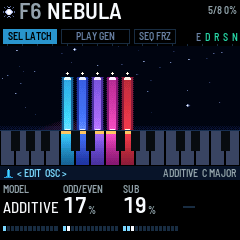
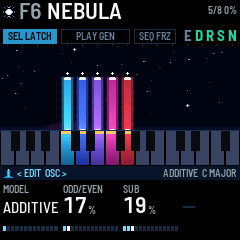
Take the dead knobs and the skipped values off the panel, so every control does what the screen says

Changed region(s): [[0.7583, 0.1167, 0.9917, 0.175]]

diff --git a/deepfield/site/cheatsheet/index.html b/deepfield/site/cheatsheet/index.html
@@ -134,7 +134,7 @@ footer { margin-top: 8px; color: var(--muted); font-size: .92rem; }
   <h2>Getting around</h2>
   <dl>
     <dt><span class="v">tap</span><span class="c">HOME</span></dt>
-    <dd>HOME page: TIMBRE, DRIFT, REVERB, TREMOLO on KNOB 1–4.</dd>
+    <dd>HOME page: TIMBRE, DRIFT, SUB, TREMOLO on KNOB 1&ndash;4. Reverb lives on FX and the FX mixer; every preset comes with it on.</dd>
     <dt><span class="v">turn</span><span class="c k">SELECT</span></dt>
     <dd>The next or previous page.</dd>
     <dt><span class="v">tap</span><span class="c">EDIT</span></dt>
@@ -146,9 +146,9 @@ footer { margin-top: 8px; color: var(--muted); font-size: .92rem; }
     <dt><span class="v">tap</span><span class="c">FX</span></dt>
     <dd>ENSEMBLE. Turn SELECT for DELAY, DELAY 2, REVERB.</dd>
     <dt><span class="v">tap</span><span class="c">ARP</span></dt>
-    <dd>GEN. Turn SELECT for GEN 2.</dd>
+    <dd>GEN. Turn SELECT for GEN 2, whose knobs are the mode's too &mdash; a knob the mode never reads is empty.</dd>
     <dt><span class="v">tap</span><span class="c">GLO</span></dt>
-    <dd>MIX: BED (everything latched), LEAD (what you play over it), OUT (a trim under the MASTER pot). Turn SELECT for FX MIX (ensemble, delay, reverb, shimmer on one screen), then GLOBAL (scale, root, morph), MIDI and USB.</dd>
+    <dd>MIX: BED (everything latched), LEAD (what you play over it), OUT (a trim under the MASTER pot). Turn SELECT for FX MIX (ensemble, delay, reverb, shimmer on one screen), then GLOBAL (scale, root, morph, TEMPO &mdash; the arp and a synced delay time both follow it), MIDI and USB.</dd>
     <dt><span class="v">turn</span><span class="c k">MASTER</span></dt>
     <dd>Volume: the speaker, the headphones and the USB recording.</dd>
   </dl>
@@ -184,7 +184,7 @@ footer { margin-top: 8px; color: var(--muted); font-size: .92rem; }
     <dt><span class="v">turn</span><span class="c k">KNOB 2</span></dt>
     <dd>On HOME, DRIFT: how much each voice wanders.</dd>
     <dt><span class="v">turn</span><span class="c k">KNOB 3</span></dt>
-    <dd>On HOME, REVERB: how much reverb.</dd>
+    <dd>On HOME, SUB: an octave below, on every model. The same value as SUB on OSC.</dd>
     <dt><span class="v">turn</span><span class="c k">KNOB 4</span></dt>
     <dd>On HOME, TREMOLO: each voice slowly fades down and back up.</dd>
     <dt><span class="v">turn</span><span class="c k">ALGORITHM</span></dt>
@@ -260,7 +260,7 @@ footer { margin-top: 8px; color: var(--muted); font-size: .92rem; }
     <dt><span class="v">tap</span><span class="c">GLO</span><span class="p">+</span><span class="v">turn</span><span class="c k">SELECT</span></dt>
     <dd>MIDI: in and out channels, local, velocity (on by default). Turn again for USB: recording and clock out.</dd>
     <dt><span class="v">send</span><span class="c">a CC</span></dt>
-    <dd>Every knob has one, in and out: 16–19 TIMBRE DRIFT REVERB TREMOLO, 9 MODEL, 109–113 GEN's MODE RATE CHANCE RANGE RETURN, 15 CHORDS, 51 ROAM, 54 BED, 2 SCALE, 3 ROOT … (the manual has the table). A knob turned sends its CC; a CC in never lights SAVE.</dd>
+    <dd>Every knob has one, in and out: 16–19 TIMBRE DRIFT REVERB TREMOLO, 21 SUB, 9 MODEL, 109–113 GEN's MODE RATE CHANCE RANGE RETURN, 15 CHORDS, 51 ROAM, 54 BED, 2 SCALE, 3 ROOT … (the manual has the table). A knob turned sends its CC; a CC in never lights SAVE.</dd>
     <dt><span class="v">send</span><span class="c">CC 57–63</span></dt>
     <dd>Switches: 57 LATCH, 58 GEN, 59 FREEZE, 60–63 ensemble, delay, reverb, shimmer (64 up is on); 12 the noise layer. Triggers: 13 the preset as saved, 14 GEN's next move now.</dd>
     <dt><span class="v">send</span><span class="c">SysEx</span></dt>

diff --git a/deepfield/ui.c b/deepfield/ui.c
@@ -30,7 +30,9 @@ typedef struct {
     uint8_t p[4];
 } page_t;
 static const page_t PAGES[PG_COUNT] = {
-    {"HOME", "HOME", {P_MASS, P_DRIFT, P_SPACE, P_TIDE}},
+    {"HOME", "HOME", {P_MASS, P_DRIFT, P_SUB, P_TIDE}},   /* the voice itself: what it is made of, how it
+                                          * drifts, how heavy it is, how it moves. REVERB was here while it
+                                          * was the only effect; it has its own page and the FX mixer now */
     {"OSC", "EDIT", {P_MODEL, P_SHAPE, P_SUB, P_AIR}},
     {"NOISE", "EDIT", {P_NZ_LEVEL, P_NZ_COLOUR, P_NZ_WIND, P_NZ_BAND}},
     {"NOISE 2", "EDIT", {P_NZ_TEXTURE, P_NZ_GUST, P_NZ_DUCK, P_NZ_WIDTH}},   /* its kind, weather, ducking, width */
@@ -47,7 +49,9 @@ static const page_t PAGES[PG_COUNT] = {
     {"MIX", "GLO", {P_BED_LEVEL, P_LD_LEVEL, PID_OUT_LEVEL, PID_NONE}},   /* GLO opens the mixer: the latched bed,
                                           * the notes played over it, and the output under the MASTER pot */
     {"FX MIX", "GLO", {P_ENS_MIX, P_DLY_MIX, P_SPACE, P_SHIMMER}},   /* every effect's level on the next screen */
-    {"GLOBAL", "GLO", {PID_SCALE, PID_ROOT, PID_MORPH, PID_NONE}},
+    {"GLOBAL", "GLO", {PID_SCALE, PID_ROOT, PID_MORPH, P_ARP_RATE}},   /* TEMPO: the arp steps at DIV of it and a
+                                          * delay set to a division of the beat follows it, so it belongs where it
+                                          * can be reached in every mode, not only on the GEN page under ARP */
     {"MIDI", "GLO", {PID_MIDI_IN, PID_MIDI_OUT, PID_LOCAL, PID_VEL}},
     {"USB", "GLO", {PID_SPEAKER, PID_USB_LEVEL, PID_CLOCK_OUT, PID_NONE}},   /* recording and clock over the cable */
 };
@@ -337,9 +341,17 @@ static uint32_t page_param(uint32_t pg, uint32_t k)   /* GEN: knobs 2-4 are the 
         };
         return BY_MODE[dr_orbit_mode()][k - 1u];
     }
-    if (pg == PG_ORBIT2 && k == 1u && (dr_orbit_mode() == OM_CYCLE || dr_orbit_mode() == OM_ECHO))
-        return P_ORB_ROAM;               /* PROG: how far the generator may take the written progression; LOOP: how
-                                          * far each pass travels. The ARP knobs stay where they are for the rest. */
+    if (pg == PG_ORBIT2) {               /* GEN 2's knobs are the mode's too, the way the GEN page's are: a knob
+                                          * whose setting this mode's generator never reads is empty, rather than
+                                          * sitting there taking a turn and doing nothing */
+        uint32_t m = dr_orbit_mode();
+        if (k == 0u)                     /* RETURN pulls a wandering voice home: ARP and PROG/LOOP never wander */
+            return m == OM_ARP || m == OM_CYCLE || m == OM_ECHO ? PID_NONE : P_GRAVITY;
+        if (k == 1u)                     /* PROG: how far the generator may take the written progression; LOOP: how
+                                          * far each pass travels; ARP: the octaves it runs over */
+            return m == OM_CYCLE || m == OM_ECHO ? P_ORB_ROAM : m == OM_ARP ? P_ARP_OCT : PID_NONE;
+        return m == OM_ARP ? PAGES[pg].p[k] : PID_NONE;   /* EUCLID and DIV are the runner's own */
+    }
     return *param_label(PAGES[pg].p[k]) ? PAGES[pg].p[k] : PID_NONE;
 }
 static uint32_t value_of(uint32_t id)
@@ -682,8 +694,12 @@ static void value_set(uint32_t id, uint32_t v)
         ui.cfg_dirty = 1;
 }
 
-/* a 0..127 knob turned slowly: 3 a detent (43 a sweep), 2 where a step is heard (VOID's cutoff, a free delay time,
- * ATTACK), 1 for RATE (a BPM a detent); turned fast (a detent within 40 ms of the last): 8, 16 a sweep */
+/* a knob shown as a percent: the lowest raw value that reads p% (value_text's v * 100 / 127), so a detent is one
+ * percent and the screen counts 38, 39, 40 instead of stepping over two of them */
+static int32_t pct_raw(int32_t p) { return (p * 127 + 99) / 100; }
+/* a 0..127 knob turned slowly that is not shown as a percent: 3 a detent (43 a sweep), 2 where a step is heard
+ * (VOID's cutoff, a free delay time, ATTACK), 1 for RATE (a BPM a detent); turned fast (a detent within 40 ms of
+ * the last): 8, 16 a sweep. A time or a frequency covers too wide a range to give every shown value a detent */
 static int32_t knob_slow(uint32_t id, int32_t v)
 {
     if (id == P_ARP_RATE)
@@ -767,6 +783,8 @@ static void knob(uint32_t id, int32_t e, int fast)
             v += e;
         else if (sh >= 0)
             v = sh;
+        else if (!fast && (PM[id].kind == K_PCT || PM[id].kind == K_TEXTURE))
+            v = pct_raw(clamp(v * 100 / 127 + e, 0, 100));   /* one percent a detent, none skipped */
         else {
             int32_t nv = v + e * (fast ? 8 : knob_slow(id, v));
             if (PM[id].kind == K_DLYTIME && v < 100 && nv >= 100)   /* from the free times into the first division */
@@ -2389,8 +2407,10 @@ static void draw_header(void)
     pill_done:;
     }
     pill(134, 42, "SEQ FRZ", dr_frozen(), 0.0f, 0);
-    for (i = 0; i < NFXK; i++)           /* the effects heard, and the noise: E D R S N */
-        cv_text(196 + (int32_t)i * 9, 31, &FONT_T, FXLETTER[i], (act >> i & 1u) ? C_FX_ON : C_OFF);
+    for (i = 0; i < NFXK; i++)           /* the effects heard, and the noise: E D R S N. Big enough to read across
+                                          * the room: with REVERB off HOME these letters are what tells you the
+                                          * reverb is on at all */
+        cv_text(184 + (int32_t)i * 11, 28, &FONT_B, FXLETTER[i], (act >> i & 1u) ? C_FX_ON : C_OFF);
     if (dr_morphing())                   /* the morph's progress along the header's foot */
         cv_rect(0, HEAD_H - 2, (int32_t)(240.0f * dr_morph_pos()), 2, C_TEXT);
     else
@@ -2877,6 +2897,15 @@ static void ui_frame(void)
         if (ui.stat_under) {             /* the USB audio ring's underruns: crackle in a recording */
             text_cat(t, " u");
             int_text((int32_t)(ui.stat_under & 0xFFFFu), v);
+            text_cat(t, v);
+        }
+        if (plat_cpu2_gave_up()) {       /* the second core off: 1 it misread a job, 2 one was late, 3 barred, 4 it
+                                          * never started. It renders half the bodies, so when it stops the sound
+                                          * changes under you and the first core takes the whole load - and nothing
+                                          * else in the log says it happened (late counts a missed deadline, which
+                                          * this is not) */
+            text_cat(t, " C");
+            int_text(plat_cpu2_gave_up(), v);
             text_cat(t, v);
         }
         plat_log(t);

diff --git a/deepfield/docs/MANUAL.md b/deepfield/docs/MANUAL.md
@@ -77,8 +77,8 @@ SELECT is a knob: they are different controls.
    key lights up and its beam rises.
 3. Tap one of those keys again. That voice fades out as you let go, and its beam sinks. (Hold it and turn a knob
    instead, and the knobs set that voice alone: section 4.)
-4. Turn KNOB 1 (TIMBRE): every voice gets brighter or darker. Turn KNOB 3 (REVERB): they sink further into the
-   reverb. The four boxes along the bottom of the screen are the four knobs.
+4. Turn KNOB 1 (TIMBRE): every voice gets brighter or darker. Turn KNOB 3 (SUB): an octave comes up underneath
+   them. The four boxes along the bottom of the screen are the four knobs.
 5. Press PLAY. GEN starts, PLAY lights green and the GEN page opens under the knobs. Every few seconds one voice
    slides to a nearby note in the scale: watch its beam move.
 6. Press SEQ. FREEZE turns on (FRZ lights): the reverb holds what it has. Press SEQ again to let it go.
@@ -133,7 +133,7 @@ accent on a key that is already lit. While FX is held, the keys show the effect 
 
 | Part | What it shows |
 | --- | --- |
-| Header | The model's glyph, then the preset's slot (F1–F16, U1–U16) and name, with a small orange square after it while it has unsaved changes. On the right: OCT when the octave isn't zero; USB while a computer records (USB MUTE when the speaker is silenced, section 10); BLE when a computer, phone or tablet is connected over Bluetooth; DEV when the FM-1 is connected to a Bluetooth MIDI keyboard or controller; how many voices are sounding; how busy the processor is (LOAD in orange: see Troubleshooting); and, while a computer records, U and a count in orange if the recording ever dropped a frame (section 10). Below that, three pills named for their buttons, SEL LATCH (SEL TRANS while SEL held is moving the chord), PLAY GEN and SEQ FRZ, filled while on, always in the same places (while GEN runs, a white line fills along the foot of its pill toward the next move); the letters E D R S N, lit for the effects that are on (ensemble, delay, reverb, shimmer, noise); and a cyan line along the bottom edge while a preset blends in. |
+| Header | The model's glyph, then the preset's slot (F1–F16, U1–U16) and name, with a small orange square after it while it has unsaved changes. On the right: OCT when the octave isn't zero; USB while a computer records (USB MUTE when the speaker is silenced, section 10); BLE when a computer, phone or tablet is connected over Bluetooth; DEV when the FM-1 is connected to a Bluetooth MIDI keyboard or controller; how many voices are sounding; how busy the processor is (LOAD in orange: see Troubleshooting); and, while a computer records, U and a count in orange if the recording ever dropped a frame (section 10). Below that, three pills named for their buttons, SEL LATCH (SEL TRANS while SEL held is moving the chord), PLAY GEN and SEQ FRZ, filled while on, always in the same places (while GEN runs, a white line fills along the foot of its pill toward the next move); the letters E D R S N, lit for the effects that are on (ensemble, delay, reverb, shimmer, noise) - the one place that tells you the reverb is on, since its amount lives on the FX pages; and a cyan line along the bottom edge while a preset blends in. |
 | The view | The voices. Each voice is a beam of light rising from its key, in its key's colour, brightest at its foot, with a white-hot head that marks its level: you see it swell in and sink as it fades (dim), and it breathes with the voice. A latched beam has a sun spark over its head; a locked one a sun bar across its foot; an open one (section 4) white frames, with the other beams dimmed. An ARP step flashes its voice's head. When GEN moves a voice, its beam slides to the new key and leaves a mark where it started, and before the move a line reaches from its head toward a dotted ghost at the key it is going to. A voice above or below the keys (a MIDI note, or after an octave change) stands thin at the edge. The noise layer is a mound of mist where its band sits, warm when brown and pale when white, drifting with the noise's RATE and lifting with each gust. Stars drift at DRIFT's speed, each twinkling slowly on its own, over a faint horizon; FREEZE stills all of it and puts ice brackets in the corners. Turning a knob shows its name, its value large and its bar here for a moment; the beams dim but stay in view behind it. Messages such as LATCH OFF, GEN ON or SAVED appear here too, and so does the list of presets while PRESETS turns (section 9). While FX is held, the five effect switches are shown here in a row. |
 | The keys strip | All 27 keys as dark glass, lit only by sound: a sounding voice's key glows in its colour, bright at the top and dimming down the key (dim while it fades), with a sun cap when latched; the keys of the scale are slightly lighter glass; a lead's key is white (grey as it fades); the held chord's keys are dim while LATCH is off; a voice's key is the one it sounds on, so it moves when GEN or SEL moves the voice; the voice you have open is framed white. |
 | Footer | The page band: the icon of the button that opened the page, its name, the page's name, and `<` `>` where SELECT can go, with the model, the scale and its root on the right. Below it, the four knobs in the order of the real knobs: each name, its value (a number large with its unit small, or a word), and a bar that shows the kind of value: segments filling for an amount, one cell per choice for a list, two cells for an on/off switch, hits and rests for EUCLID. TIMBRE, SHAPE and NOISE are named for what they do on each model (section 6). While a voice is open, the band reads VOICE and its note in the voice's colour, and the four knobs are its own (section 4). |
@@ -229,14 +229,16 @@ number.
 
 ## 5. The four macros (HOME)
 
-HOME is the main page. Its four knobs, TIMBRE, DRIFT, REVERB and TREMOLO, are the four macros: each one shapes every voice
-at once.
+HOME is the main page. Its four knobs, TIMBRE, DRIFT, SUB and TREMOLO, are the four macros: each one shapes every
+voice at once - what it is made of, how it wanders, how heavy it is, how it moves. REVERB was here while it was
+the only effect the FM-1 had; it has its own page and the FX mixer now (section 9), and every preset comes with
+it on.
 
 | Knob | Name | What it does |
 | --- | --- | --- |
 | KNOB 1 | TIMBRE | How full and bright the sound is. What it changes depends on the model: on ADDITIVE, how many harmonics and how bright; on SUPERSAW, the filter cutoff (shown in Hz); on FM and FM 4-OP, the FM depth; on BOWED, the string's brightness; on WAVETABLE, a filter that follows the note. The screen names it for the model (section 6). Aftertouch adds to it for that voice, and so does the voice's own TONE. |
 | KNOB 2 | DRIFT | How much everything wanders: the detuning, the slow drift of pitch, the breathing of the harmonics, and how fast the stars move on the screen. It also sets the vibrato's rate, 3.6 Hz at zero to 6.8 Hz at full. |
-| KNOB 3 | REVERB | How much reverb, and a little delay. The dry sound stays as it is. |
+| KNOB 3 | SUB | An octave below, on every model: how much weight is under the chord. The same value as SUB on the OSC page. |
 | KNOB 4 | TREMOLO | How much each voice fades down and back up on its own slow cycle. At full, each voice goes all the way to silence and back. TREM RATE (LFO page) sets how fast. |
 
 MASTER is the volume of everything the FM-1 sends out: the speaker, the headphones and the USB recording. It is
@@ -254,17 +256,20 @@ next or previous page, in the order of the table below: DELAY, DELAY 2 and REVER
 after ENSEMBLE, for example. The page band's `<` and `>` show where SELECT can go. A page stays open until you
 press another page button or turn SELECT. Most values show on the screen as a percentage.
 
-**Turning the knobs.** Turned slowly, a knob moves in small steps: about 43 clicks from one end to the other. Turned
-quickly, in big ones: 16 clicks end to end. SUPERSAW's TIMBRE, a free DLY TIME and ATTACK move in finer steps still, and
-TEMPO one BPM a click. A knob with only a few values (RANGE, VOICES, TRANSPOSE, the delay's note lengths,
-FM 4-OP's patches) moves one value a click at any speed.
+**Turning the knobs.** A knob shown as a percentage moves **one percent a click** turned slowly, so the number on
+the screen counts 38, 39, 40 and never steps over one: 100 clicks from end to end. Turned quickly - any click
+within 40 ms of the last - it moves in big steps instead, 16 clicks end to end, so a sweep is still a flick of the
+wrist. A knob that shows a time or a frequency (ATTACK, RELEASE, GLIDE, a free DLY TIME, SUPERSAW's and VOID's
+TIMBRE) covers too wide a range for every value it can show to have a click of its own, so those still move in
+small steps of their own; TEMPO moves one BPM a click. A knob with only a few values (RANGE, VOICES, TRANSPOSE,
+the delay's note lengths, FM 4-OP's patches) moves one value a click at any speed.
 
 A few names are on two pages (ATTACK and RELEASE on ENVELOPE and LEAD, RATE on NOISE and GEN, GATE on DELAY 2 and
 ARP, WIDTH on LFO and NOISE 2): the page band tells you which one you are turning.
 
 | Button | Page | KNOB 1 | KNOB 2 | KNOB 3 | KNOB 4 |
 | --- | --- | --- | --- | --- | --- |
-| HOME | HOME | TIMBRE | DRIFT | REVERB | TREMOLO |
+| HOME | HOME | TIMBRE | DRIFT | SUB | TREMOLO |
 | EDIT | OSC | MODEL (also on ALGORITHM) | SHAPE (named for the model) | SUB | NOISE (named for the model) |
 | EDIT, SELECT once | NOISE | LEVEL (0 is off) | COLOR (brown to white) | RATE (how fast it moves, how often it gusts) | BANDPASS (wide, narrow, or on the voices: see below) |
 | EDIT, SELECT twice | NOISE 2 | TYPE (hiss, rain, crackle) | GUST (how much it swells now and then) | DUCK (how far it drops under a chord) | WIDTH (its own stereo width) |
@@ -272,15 +277,15 @@ ARP, WIDTH on LFO and NOISE 2): the page band tells you which one you are turnin
 | ENV, SELECT once | LEAD | ATTACK (1 ms to 2 s) | RELEASE (30 ms to 7.7 s) | TRANSPOSE (0 to +2 octaves, in semitones) | LEVEL |
 | LFO | LFO | TREM RATE | VIBRATO (up to 40 cents either way, at DRIFT's rate; each voice a little faster than the one below) | RANDOM (a slow random drift of pitch) | WIDTH (stereo spread across the notes) |
 | LFO, SELECT once | VOICES | SPREAD (how unlike each other the voices are) | CROSS MOD (pairs bending each other's pitch) | TIMBRE DRIFT (each voice's TIMBRE wandering) | PAN DRIFT (each voice drifting across the stereo field) |
-| FX | ENSEMBLE | ENSEMBLE (OFF, CHOR I, CHOR II or ENSEMBLE, the fullest) | ENS MIX | – | – |
+| FX | ENSEMBLE | ENSEMBLE (OFF, CHOR I, CHOR II or ENSEMBLE, the fullest; switching between them ducks the effect for 15 ms rather than cutting it) | ENS MIX | – | – |
 | FX, SELECT once | DELAY | TYPE (PING PONG, TAPE, DUB, REVERSE, OCT UP, OCT DOWN, GRANULAR) | DLY TIME | DLY FDBK (how many repeats) | DLY MIX (how loud) |
 | FX, SELECT twice | DELAY 2 | TONE (dark or bright repeats) | DIFFUSION (echoes blurred into a cloud) | WOW (how far the tape wanders) | GATE (only slices of the sound go in) |
-| FX, SELECT three times | REVERB | DECAY (how long it rings, about 0.6 to 8 s) | DAMPING (how fast the highs die away) | SHIMMER | REVERB (the same as on HOME) |
+| FX, SELECT three times | REVERB | DECAY (how long it rings, about 0.6 to 8 s) | DAMPING (how fast the highs die away) | SHIMMER | REVERB (how much, the same value as on the FX mixer) |
 | ARP | GEN | MODE | Depends on the mode (section 7) | Depends on the mode | Depends on the mode |
-| ARP, SELECT once | GEN 2 | RETURN | OCTAVES (ARP, 1 to 3) | EUCLID (ARP: its hits and rests) | DIV (ARP: a step's length) |
+| ARP, SELECT once | GEN 2 | RETURN (WALK, SHIFT, RANDOM) | ROAM (PROG, LOOP) or OCTAVES (ARP, 1 to 3) | EUCLID (ARP: its hits and rests) | DIV (ARP: a step's length) |
 | GLO | MIX | BED (the latched voices' level) | LEAD (the notes you play over them: the LEAD page's LEVEL) | OUT (a trim under the MASTER pot, on the speaker and on what a computer records alike) | – |
 | GLO, SELECT once | FX MIX | ENS MIX | DLY MIX | REVERB | SHIMMER — every effect's level on one screen, the same four values as their own pages |
-| GLO, SELECT twice | GLOBAL | SCALE | ROOT | MORPH (NOW, or 1 to 30 s) | – |
+| GLO, SELECT twice | GLOBAL | SCALE | ROOT | MORPH (NOW, or 1 to 30 s) | TEMPO (40 to 240 BPM, EXT while MIDI clock comes in) |
 | GLO, SELECT three times | MIDI (and the Bluetooth device, in place of the view: section 10) | IN CH (OMNI or 1–16) | OUT CH (1–16) | LOCAL | VELOCITY |
 | GLO, SELECT four times | USB | SPEAKER (ON, AUTO, OFF) | USB LEVEL (the recording's level, 0 to -18 dB) | CLOCK OUT | – |
 
@@ -307,7 +312,7 @@ empty. In this manual, and over MIDI, they are TIMBRE, SHAPE and NOISE.
 | TAPE | A loop on worn tape: wow (a slow sway in pitch, its own for each voice), flutter, and now and then a dropout, the sound sinking and darkening for a third of a second. DRIFT is how worn it is: more wow, more dropouts. Everything saturates a little. | BANDWIDTH: the tape's bandwidth | SOURCE: the sound on the tape, a soft organ (0%) to a saw (100%) |
 | RESONATOR | Noise played into five resonances over the note, like a singing bowl or a glass kept ringing: it sustains, shimmering as the noise moves through it. DRIFT adds a slow shimmer in their tuning. | BRIGHTNESS: how bright the upper resonances ring | MATERIAL: PURE (in tune with the note's harmonics), GLASS, BOWL, then BRONZE (a gong's crowded tones) |
 
-SUB adds an octave below on every model. The fourth OSC knob (NOISE) adds breath, noise or an edge: BOW NOISE on
+SUB adds an octave below on every model, and is the third knob on HOME as well. The fourth OSC knob (NOISE) adds breath, noise or an edge: BOW NOISE on
 BOWED, BREATH on FORMANT, STRIKE (the hiss of the strike) on BELL, NOISE (a breath of it) on SHEPARD, NOISE into the
 fold on WAVEFOLD, UNISON on WAVETABLE (a second, detuned copy from another place in the sweep), FEEDBACK on FM 4-OP
 (grit), RING MOD on SYNC (the sound rung with the note's sine: hollow, metallic, still in tune), HISS on TAPE, and
@@ -329,8 +334,8 @@ or on its own with no keys held: wind, sea, rain or breath.
   crackle beyond), its **GUST** (now and then, at RATE's pace, it swells louder, brighter and higher, sitting lower
   between; FREEZE holds the weather), how far it **DUCK**s under a chord, and its own stereo **WIDTH**.
 
-The four macros shape the noise too: TIMBRE brightens it, DRIFT widens its wander, REVERB sends it to the reverb, and
-TREMOLO makes it breathe. Aftertouch brightens it, and it fades in and out at ATTACK and RELEASE like a voice. Hold
+The four macros shape the noise too: TIMBRE brightens it, DRIFT widens its wander, SUB puts an octave under it, and
+TREMOLO makes it breathe. REVERB (FX) sends it to the reverb. Aftertouch brightens it, and it fades in and out at ATTACK and RELEASE like a voice. Hold
 FX and press C4 (white key 5) to switch it off and on again. Switched back on, it returns at the level it had when
 you last switched it off, or else at the preset's saved level, or else at a third. N lights in the header while it is
 on, and its beam on the screen rises with each gust. MIDI CC 20 sets its LEVEL.
@@ -367,7 +372,7 @@ held, REVERB down.
 - Over most of its turn, **DLY TIME** is a time from 50 to 800 ms, and the screen shows it in ms. On PING PONG the
   right-hand echo comes a little later than the left one, up to 1.1 s.
 - Near the top of its turn, DLY TIME becomes a note length: 1/16, 1/8, 1/4T, 1/8D, 1/4, 1/4D or 1/2 (T is a
-  triplet, D is dotted). The tempo comes from TEMPO (ARP's tempo, on the GEN page with MODE set to ARP), or from
+  triplet, D is dotted). The tempo comes from TEMPO (GLOBAL page, and on the GEN page with MODE set to ARP), or from
   MIDI clock when it is coming in, so the echoes land in time with ARP; on PING PONG the right-hand echo then lands on the
   beat too. A length that would be longer than 800 ms at that tempo plays at half length, still in time. On GRANULAR,
   DLY TIME is how often a piece comes.
@@ -437,13 +442,19 @@ longer than RATE the voices never land, a swarm. SHIFT that fast is mostly a blu
 stops showing where the moves go (they would only flicker). LOOP never runs faster than once a second: its phrase
 needs the time.
 
-**EUCLID** (GEN 2, for ARP) spreads the notes over a pattern of steps as evenly as they go, and rests on the
+**EUCLID** (GEN 2, in ARP) spreads the notes over a pattern of steps as evenly as they go, and rests on the
 others: 8/8 (every step a note), 5/8, 3/8, 7/12, 5/12, 4/9, 7/16 or 5/16. The notes move on only at a note, so four
 notes over five hits fall differently against the pattern every time round. **DIV** sets a step's length against
 TEMPO's beat: 1/16, 1/16T, 1/8, 1/8T, 1/8D, 1/4, 1/4T, 1/2 or 1 BAR (T a triplet, D dotted). Slow steps with a long
 RELEASE (LEAD page) toll like bells.
 
-![The GEN 2 page: RETURN, OCTAVES, EUCLID 3/8, DIV 1/8](img/screen-rhythm.png "EUCLID and DIV")
+**GEN 2's knobs are the mode's, like the GEN page's.** A knob whose setting the mode's generator never reads is
+empty rather than sitting there turning to nothing: RETURN only in WALK, SHIFT and RANDOM, which are the modes
+that wander; ROAM in PROG and LOOP; OCTAVES, EUCLID and DIV only in ARP, since they are the runner's own. The
+value is kept either way - set EUCLID in ARP, go to WALK and back, and it is as you left it, and MIDI can set any
+of them at any time (section 11).
+
+![The GEN 2 page in ARP: OCTAVES, EUCLID 3/8, DIV 1/8](img/screen-rhythm.png "EUCLID and DIV")
 
 **PROG leads the chord; it does not shift it.** Each step names the notes the next chord should contain, counted
 in scale degrees from where you played the chord, so the colour comes from SCALE. A voice already on one of those
@@ -510,8 +521,8 @@ outside it, which is why SCALE used to make so little difference to what you hea
 the scale itself which degree carries the diminished chord and which acts as a dominant, and passes through both
 in one step instead of resting on them.
 
-**RETURN** (GEN 2) is the chance that a voice, or in SHIFT the whole chord, is pulled back to the key where it
-started. GEN leaves alone the voices held over MIDI, the locked voices, and the leads. Each move goes out over MIDI as a note off and
+**RETURN** (GEN 2, in WALK, SHIFT and RANDOM) is the chance that a voice, or in SHIFT the whole chord, is pulled
+back to the key where it started. ARP, PROG and LOOP never wander from the key, so the knob is empty there. GEN leaves alone the voices held over MIDI, the locked voices, and the leads. Each move goes out over MIDI as a note off and
 a note on.
 
 **The next move now.** Hold SEL and press PLAY: the move that is coming comes at once, and the countdown starts

diff --git a/deepfield/docs/CHEATSHEET.md b/deepfield/docs/CHEATSHEET.md
@@ -48,7 +48,7 @@ browsing, LATCH or the octave), and blinks in its dialog. An effect switched off
 ## Pages (KNOB 1 · 2 · 3 · 4)
 | Page | 1 | 2 | 3 | 4 |
 | --- | --- | --- | --- | --- |
-| HOME | TIMBRE (bright) | DRIFT (wander) | REVERB (the hall) | TREMOLO (ebb and swell) |
+| HOME | TIMBRE (bright) | DRIFT (wander) | SUB (an octave below, as on OSC) | TREMOLO (ebb and swell) |
 | OSC | MODEL | SHAPE (named for the model) | SUB | NOISE (named for the model) |
 | NOISE | LEVEL (0 = off) | COLOR (brown → white) | RATE (how fast the band wanders; how often a gust) | BANDPASS (wide → narrow on the newest note → past half, breath on every voice) |
 | NOISE 2 | TYPE (hiss → rain → crackle) | GUST (the swells now and then) | DUCK (under a chord) | WIDTH (its own) |
@@ -59,12 +59,12 @@ browsing, LATCH or the octave), and blinks in its dialog. An effect switched off
 | FX ENSEMBLE | ENSEMBLE (mode) | ENS MIX | – | – |
 | FX DELAY | TYPE: PING PONG (left, right), TAPE (centre, worn, wavering), DUB (one echo, darker and ringing more each pass, wide; near full FDBK it sits and drones), REVERSE (swells; a held chord breathes in), OCT UP (octaves up), OCT DOWN (octaves down), GRANULAR (pieces scattered, at the note, an octave either way or a fifth up) | DLY TIME (50 to 800 ms; from 100 the beat's division 1/16 1/8 1/4T 1/8D 1/4 1/4D 1/2, from ARP's TEMPO or the MIDI clock, halved when too long; GRANULAR: how often a piece) | DLY FDBK | DLY MIX (full: the first echo about as loud as the note) — a DLY TIME move takes the repeats out for 12 ms and lands them on the new time, so it no longer swoops; TAPE still slides, inside a tone and a half |
 | FX DELAY 2 | TONE (repeats dark and full to bright and thin) | DIFFUSION (repeats smeared into a cloud) | WOW (the tape's wander, clean to seasick) | GATE (only a slice of each DLY TIME goes in: a held chord pulses) |
-| FX REVERB | DECAY (0.6–8 s) | DAMPING | SHIMMER (the octave up read twice, 35 ms apart, one a side: wide) | REVERB (the send, as on HOME) |
+| FX REVERB | DECAY (0.6–8 s) | DAMPING | SHIMMER (the octave up read twice, 35 ms apart, one a side: wide) | REVERB (the send, as on the FX mixer) |
 | GEN | MODE | WALK, SHIFT, RANDOM, PROG, LOOP: RATE (0.1–60 s; under MIDI clock in beats, shown; LOOP from 1 s; no destination shown under 0.5 s); ARP: TEMPO (BPM, EXT on MIDI clock) | CHANCE; RANDOM: VOICES; ARP: GATE; LOOP: DECAY | RANGE; SHIFT: RANGE; ARP: PATTERN; PROG: CHORDS (ROUND, UNDERTOW, SLOW RISE, TWO ROOMS, OPEN DOOR, COLOUR, BREATH, STONES - 8 to 15 steps, unequal lengths, the chord led one or two voices at a time while the rest hold, nothing pinned - LOCK a voice yourself for a pedal); LOOP: OCT JUMP. REC on this page with LOOP showing records a phrase from the keys (LATCH lifted for the take, the rhythm AND each note's length kept, REC again to close and play; closing sets RATE to the phrase's own length; DECAY 0 never fades). Selecting LOOP with nothing recorded says REC THEN PLAY |
-| GEN 2 | RETURN | ROAM (PROG: 0 plays the table as written, up develops it; LOOP: how far each pass travels); OCTAVES (ARP) | EUCLID (ARP: 8/8 5/8 3/8 7/12 5/12 4/9 7/16 5/16, hits spread evenly, rests between) | DIV (ARP: 1/16 1/16T 1/8 1/8T 1/8D 1/4 1/4T 1/2 1 BAR of TEMPO's beat) |
+| GEN 2 (the mode's knobs, the rest empty) | RETURN (WALK, SHIFT, RANDOM) | ROAM (PROG: 0 plays the table as written, up develops it; LOOP: how far each pass travels); OCTAVES (ARP) | EUCLID (ARP: 8/8 5/8 3/8 7/12 5/12 4/9 7/16 5/16, hits spread evenly, rests between) | DIV (ARP: 1/16 1/16T 1/8 1/8T 1/8D 1/4 1/4T 1/2 1 BAR of TEMPO's beat) |
 | MIX (GLO) | BED (everything latched) | LEAD (what you play over it) | OUT (a trim under the MASTER pot, speaker and USB alike) | – |
 | FX MIX (GLO, SELECT once) | ENS MIX | DLY MIX | REVERB | SHIMMER — every effect's level on one screen |
-| GLOBAL (GLO, SELECT twice) | SCALE | ROOT | MORPH | – |
+| GLOBAL (GLO, SELECT twice) | SCALE | ROOT | MORPH | TEMPO (40–240 BPM, EXT on MIDI clock; ARP steps at DIV of it and a synced DLY TIME follows it) |
 | MIDI (the view shows the Bluetooth device: CONNECTED and its name, or NOT CONNECTED and the devices found, searched for while the page is up) | IN CH | OUT CH | LOCAL | VELOCITY (on by default) |
 | USB | SPEAKER (ON; AUTO: silent while a computer records; OFF) | USB LEVEL (the recording, 0 to -18 dB) | CLOCK OUT (24 a beat while ARP runs from TEMPO) | – |
 

diff --git a/deepfield/site/landing.md b/deepfield/site/landing.md
@@ -18,8 +18,8 @@ work; on a phone, turn it sideways.
 2. Click a few keys, one at a time, or type them: Q to I and A to K are the white keys, 1 to 0 and the minus key
    the black ones. Each note swells in and keeps sounding.
 3. Click a lit key again: that note fades out.
-4. Drag KNOB 1 to KNOB 4 up or down. They set the brightness, the wander, the reverb and the slow rise and fall of
-   every note at once.
+4. Drag KNOB 1 to KNOB 4 up or down. They set the brightness, the wander, the octave underneath and the slow rise
+   and fall of every note at once.
 5. Press PLAY (or the P key): the notes start moving to nearby notes on their own.
 6. Turn PRESETS to change the preset: its sound blends in over a few seconds under the notes you are playing.
    Shift-click SEL to hold it while you turn, and the preset brings its own chord in place of yours.
